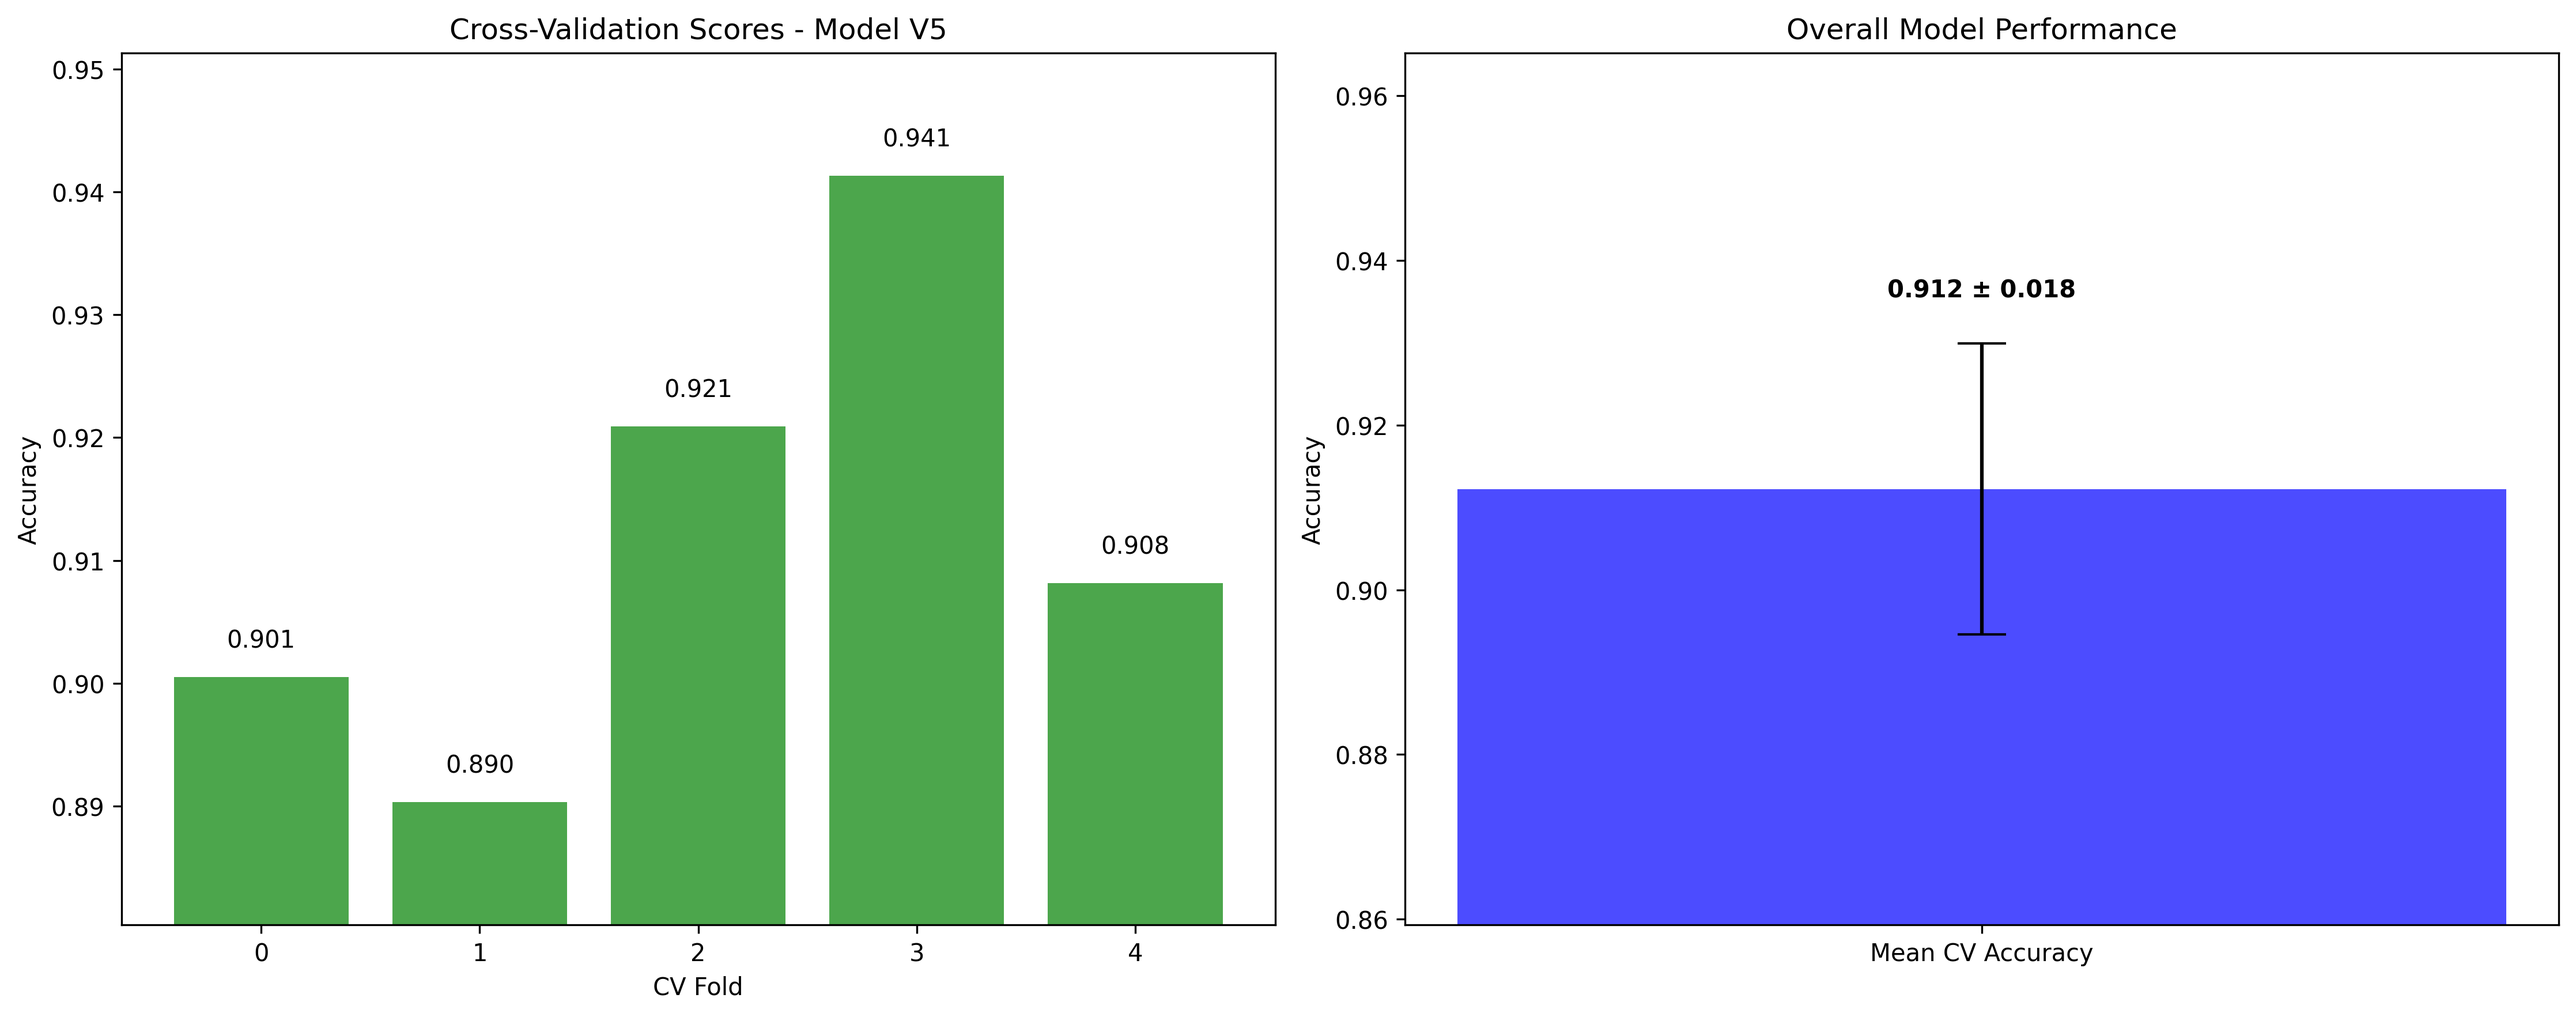
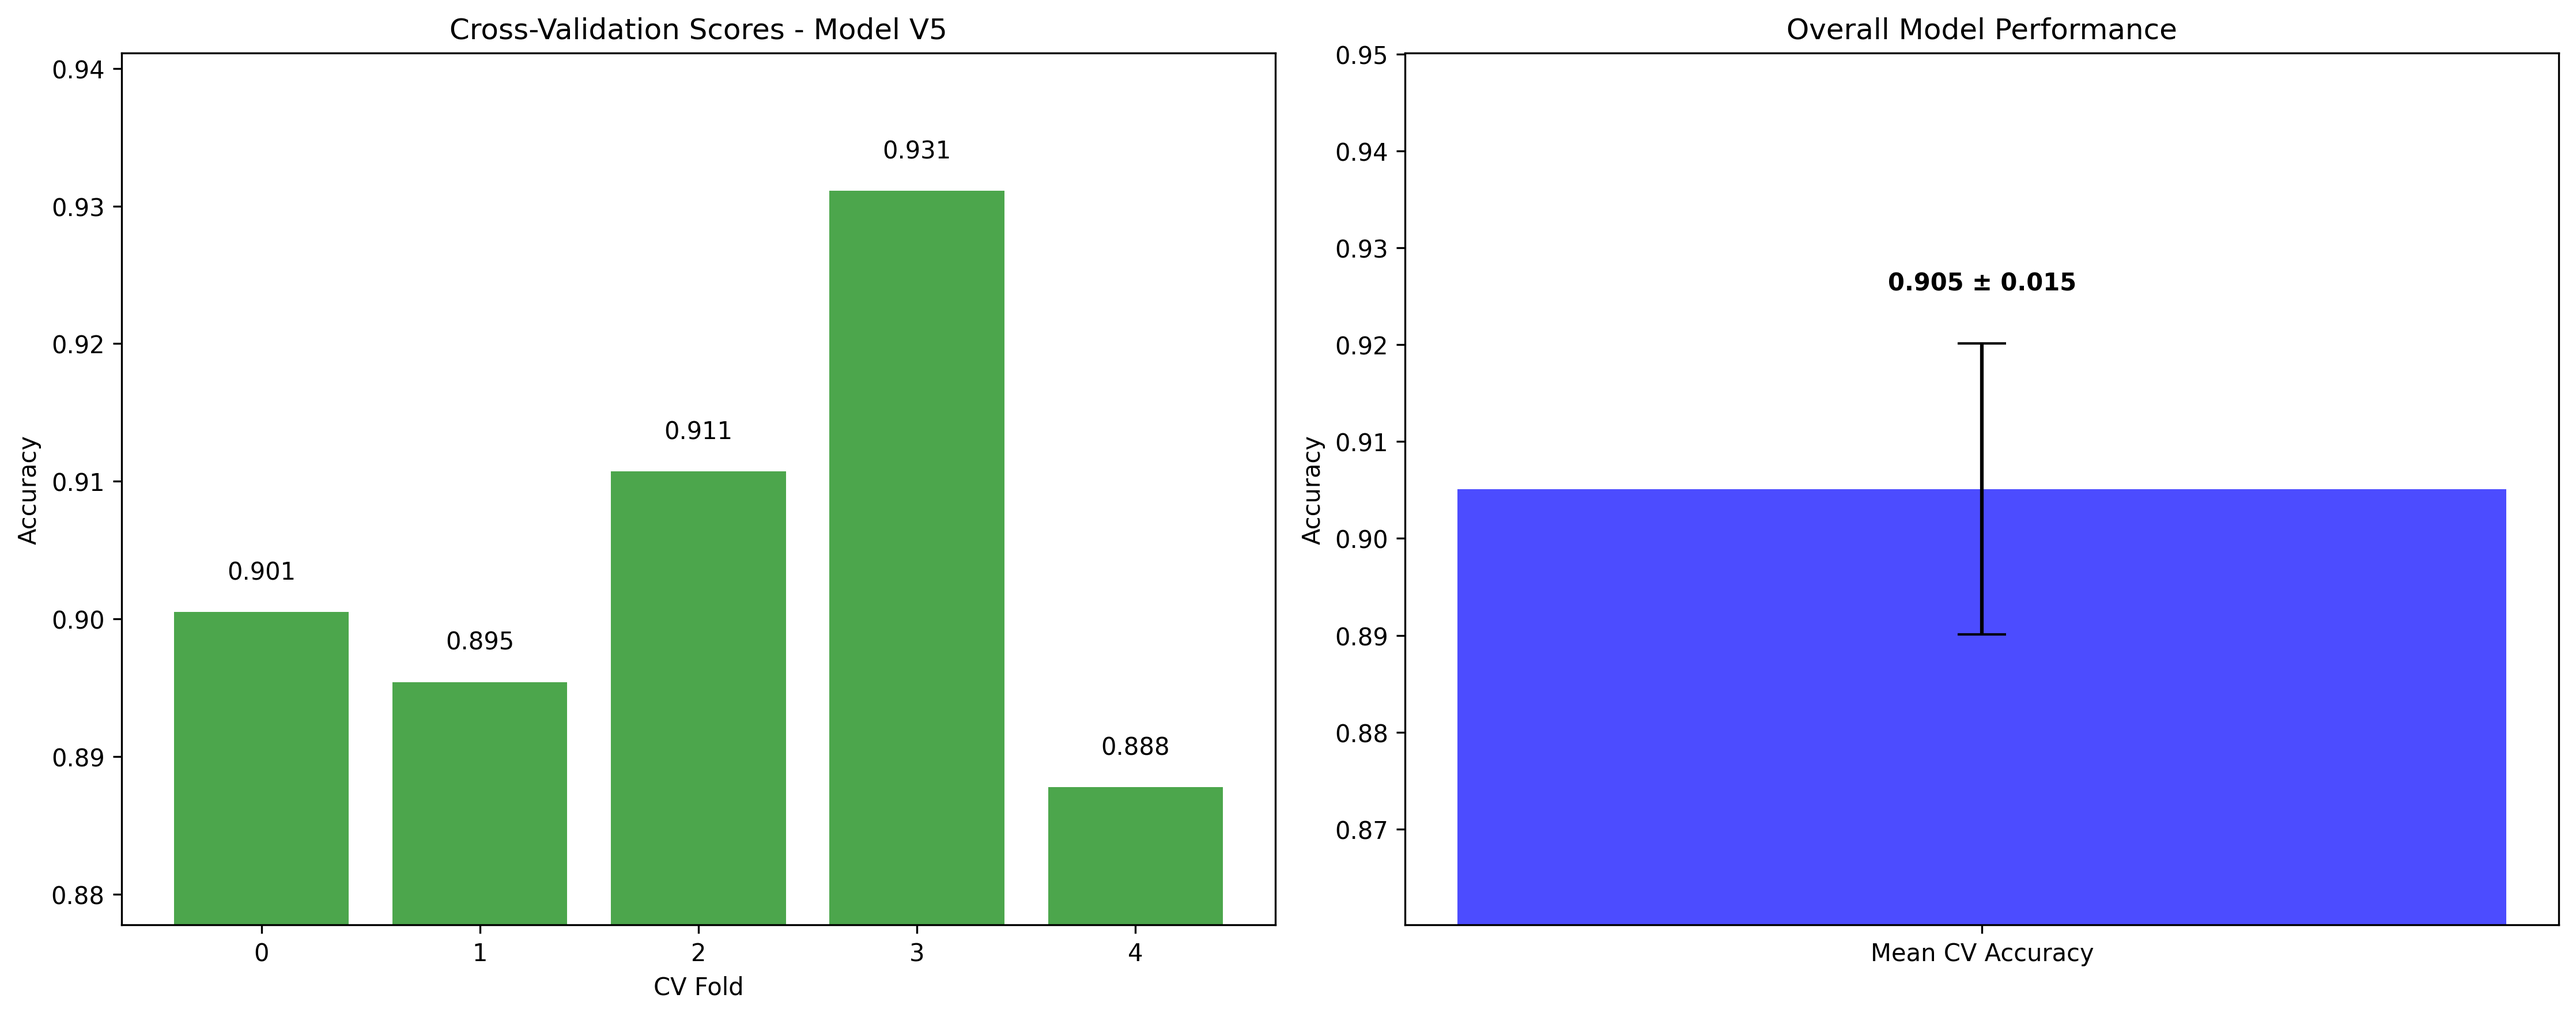
V5 Model (Cat and Subcat slope features added) With Results

diff --git a/src/Model_V5/xgboost_model.py b/src/Model_V5/xgboost_model.py
@@ -43,13 +43,88 @@ class XGBoostClassifier:
         return df
     
     def prepare_features(self, df):
-        exclude_columns = ['sub', 'profile', 'FSR', 'free_response', 'td_or_asd']
+        exclude_columns = ['sub', 'profile', 'FSR', 'free_response', 'td_or_asd','mean_slope_overall_subcat','mean_slope_overall_cat', 'mean_slope_subcat', 'mean_slope_cat']
         
         feature_columns = []
         for col in df.columns:
+            print("'" + col + "',")
             if col not in exclude_columns:
                 if df[col].dtype in ['int64', 'float64', 'bool']:
                     feature_columns.append(col)
+
+        feature_columns = [
+            # 'sub',
+            # 'profile',
+            # 'FSR',
+            # 'avg_PE',
+            # 'free_response',
+            # 'td_or_asd',
+            # 'mean_slope_cat',
+            # 'mean_slope_overall_cat',
+            'mean_slope_subcat',
+            # 'mean_slope_overall_subcat',
+            'FSR_scaled',
+            'avg_PE_scaled',
+            # 'personality_inference_mentioned',
+            # 'personality_inference_positive',
+            # 'personality_inference_negative',
+            # 'personality_inference_neutral',
+            # 'sweets_mentioned',
+            # 'sweets_positive',
+            # 'sweets_negative',
+            # 'sweets_neutral',
+            # 'Fruits_and_vegetables_mentioned',
+            # 'Fruits_and_vegetables_positive',
+            # 'Fruits_and_vegetables_negative',
+            # 'Fruits_and_vegetables_neutral',
+            # 'healthy_savory_food_mentioned',
+            # 'healthy_savory_food_positive',
+            # 'healthy_savory_food_negative',
+            # 'healthy_savory_food_neutral',
+            # 'food_mentioned',
+            # 'food_positive',
+            # 'food_negative',
+            # 'food_neutral',
+            # 'cosmetics_mentioned',
+            # 'cosmetics_positive',
+            # 'cosmetics_negative',
+            # 'cosmetics_neutral',
+            # 'fashion_mentioned',
+            # 'fashion_positive',
+            # 'fashion_negative',
+            # 'fashion_neutral',
+            # 'toys_gadgets_and_games_mentioned',
+            # 'toys_gadgets_and_games_positive',
+            # 'toys_gadgets_and_games_negative',
+            # 'toys_gadgets_and_games_neutral',
+            # 'sports_mentioned',
+            # 'sports_positive',
+            # 'sports_negative',
+            # 'sports_neutral',
+            # 'music_mentioned',
+            # 'music_positive',
+            # 'music_negative',
+            # 'music_neutral',
+            # 'arts_and_crafts_mentioned',
+            # 'arts_and_crafts_positive',
+            # 'arts_and_crafts_negative',
+            # 'arts_and_crafts_neutral',
+            # 'word_count',
+            # 'sentence_count',
+            # 'char_count',
+            'avg_word_length',
+            # 'avg_sentence_length',
+            'shortness_score',
+            'lexical_diversity',
+            'sentiment_polarity',
+            'sentiment_subjectivity',
+            # 'positive_word_count',
+            # 'negative_word_count',
+            # 'positive_word_ratio',
+            # 'negative_word_ratio',
+            'flesch_reading_ease',
+            'flesch_kincaid_grade',
+                           ]
         
         X = df[feature_columns].copy()
         y = df['td_or_asd'].copy()

diff --git a/src/Model_V5/predict.py b/src/Model_V5/predict.py
@@ -5,7 +5,7 @@ import seaborn as sns
 import os
 import json
 from pathlib import Path
-from sklearn.metrics import accuracy_score, confusion_matrix, classification_report, roc_auc_score
+from sklearn.metrics import accuracy_score, confusion_matrix, classification_report, roc_auc_score, f1_score
 from xgboost_model import XGBoostClassifier
 from data_preprocessor import preprocess_prediction_data
 from explainability_analysis import run_explainability_analysis
@@ -120,6 +120,9 @@ def predict_from_file(data_path):
     if 'td_or_asd' in results_df.columns:
         accuracy = accuracy_score(results_df['td_or_asd'], results_df['predicted_td_or_asd'])
         print(f"\nTest Accuracy: {accuracy:.4f}")
+
+        f1 = f1_score(results_df['td_or_asd'], results_df['predicted_td_or_asd'])
+        print(f"\nTest f1-score: {f1:.4f}")
         
         print("\nClassification Report:")
         print(classification_report(results_df['td_or_asd'], results_df['predicted_td_or_asd']))
